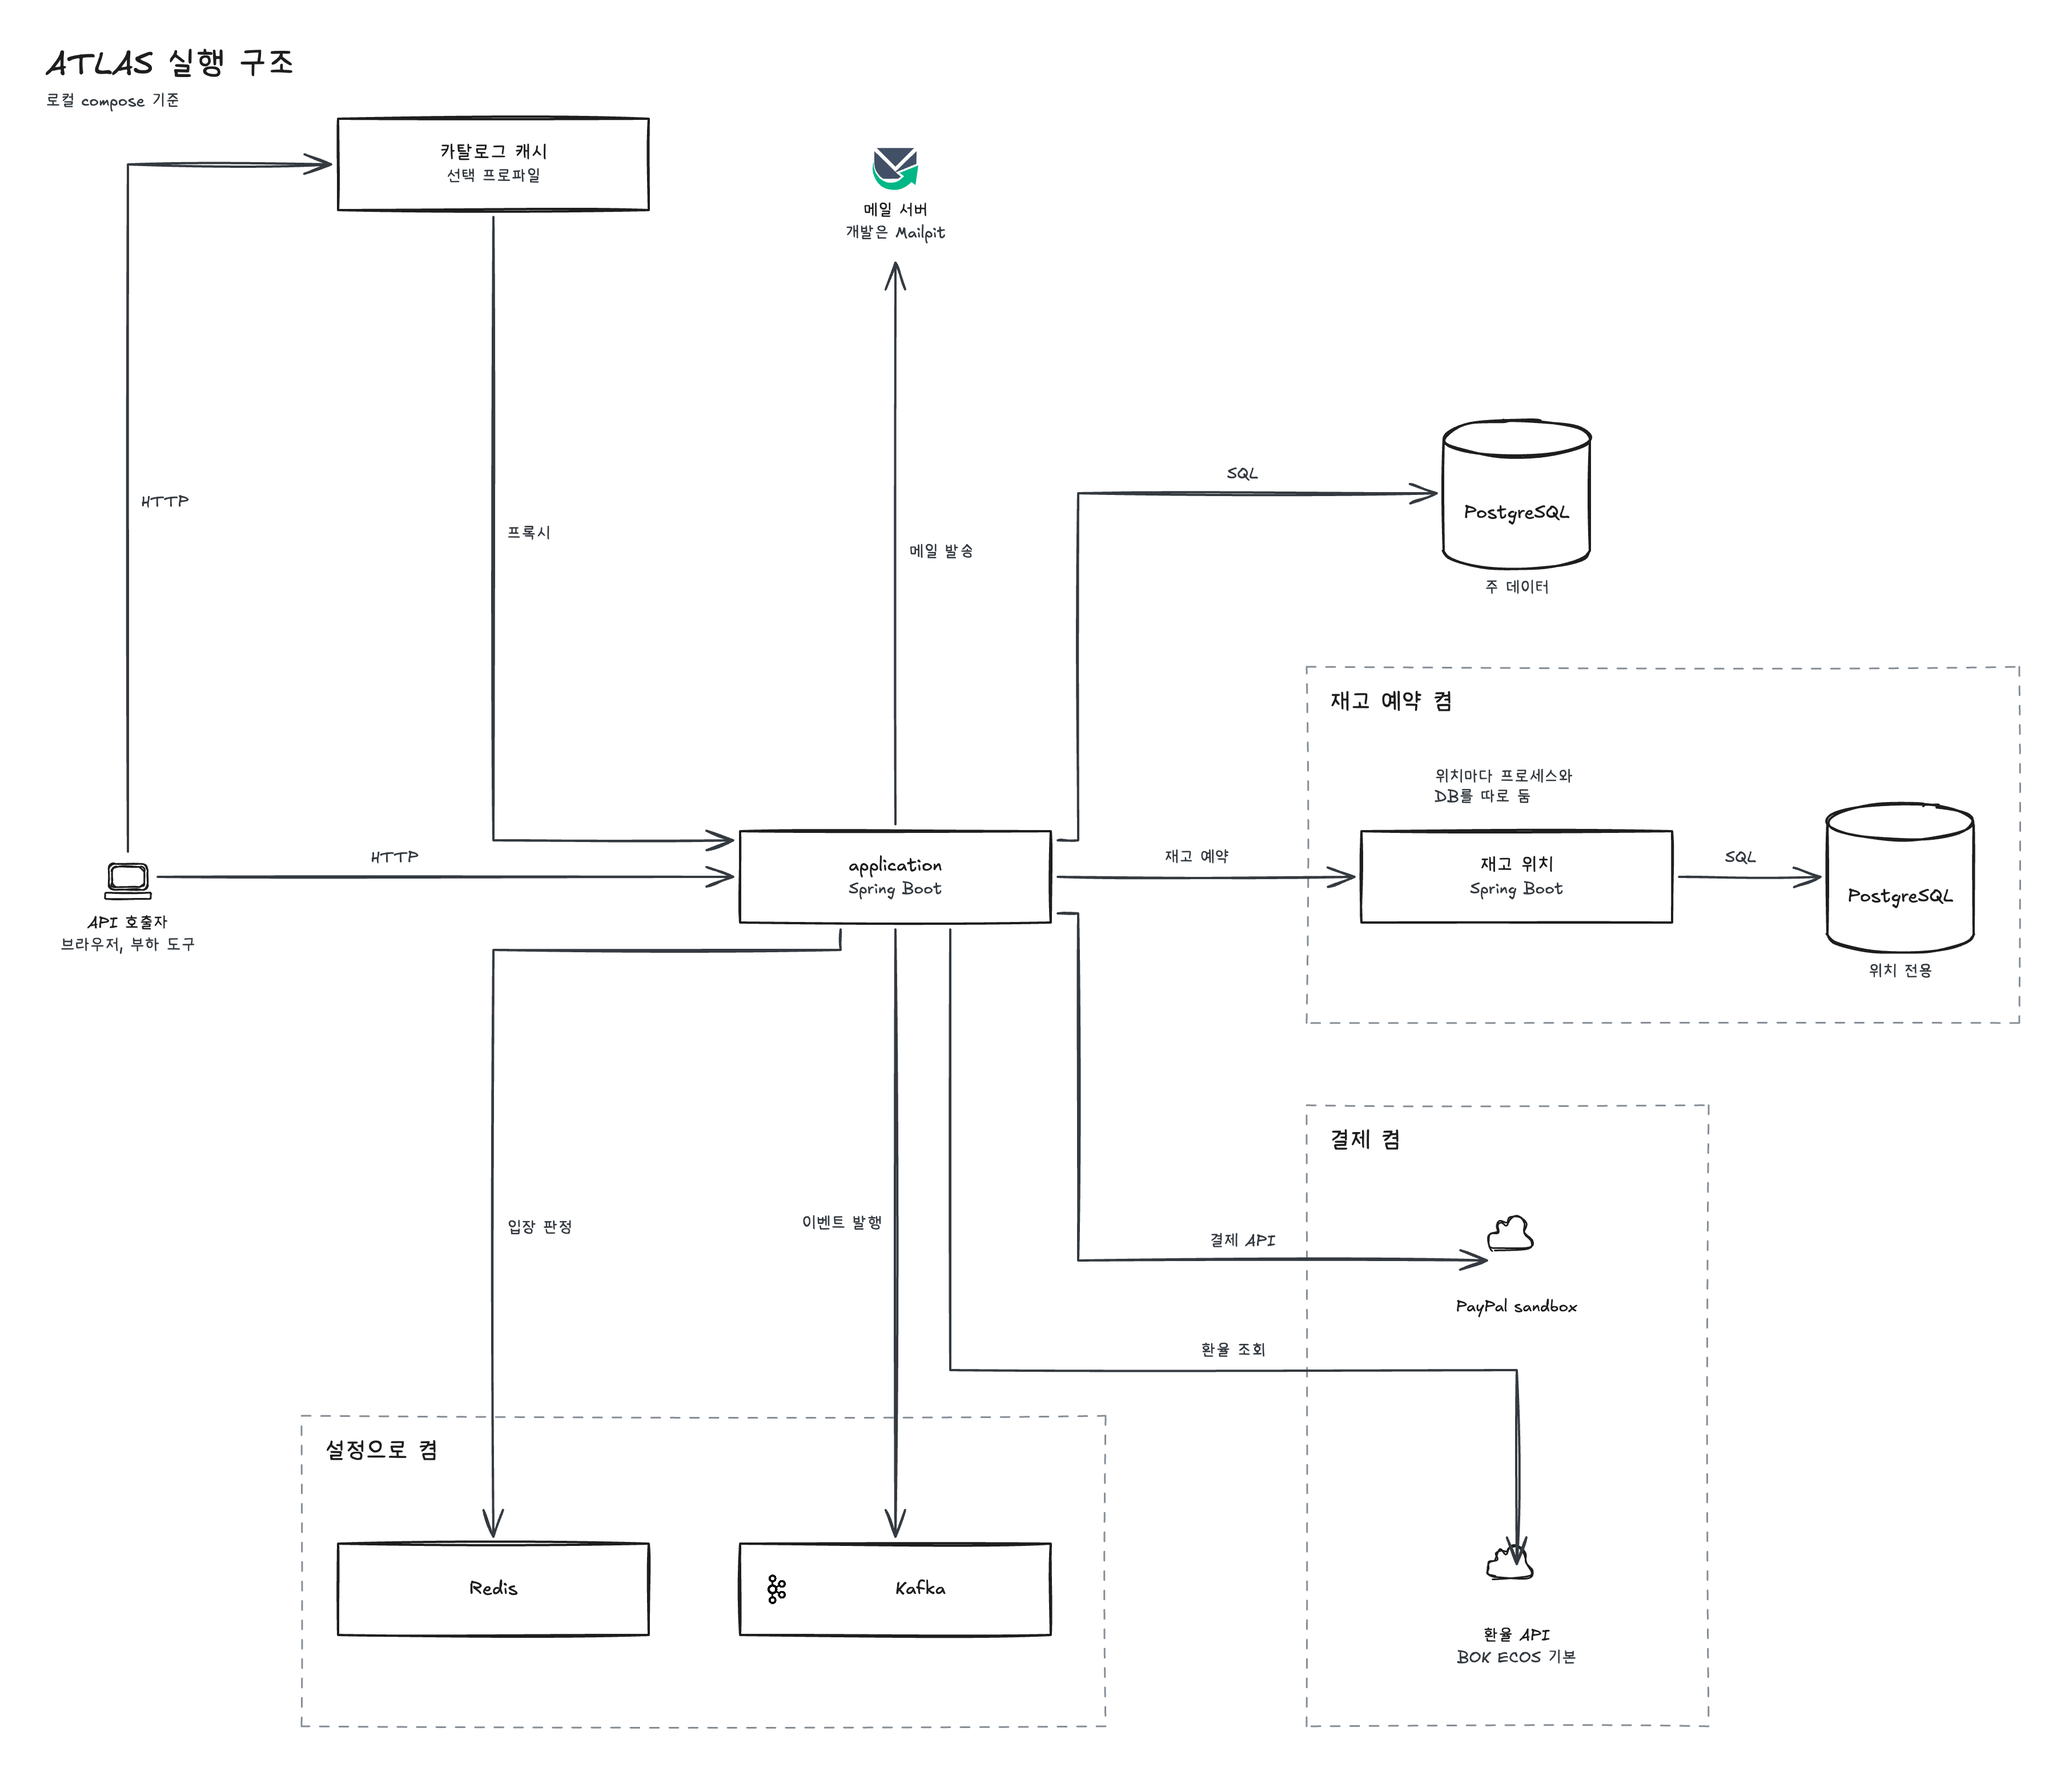
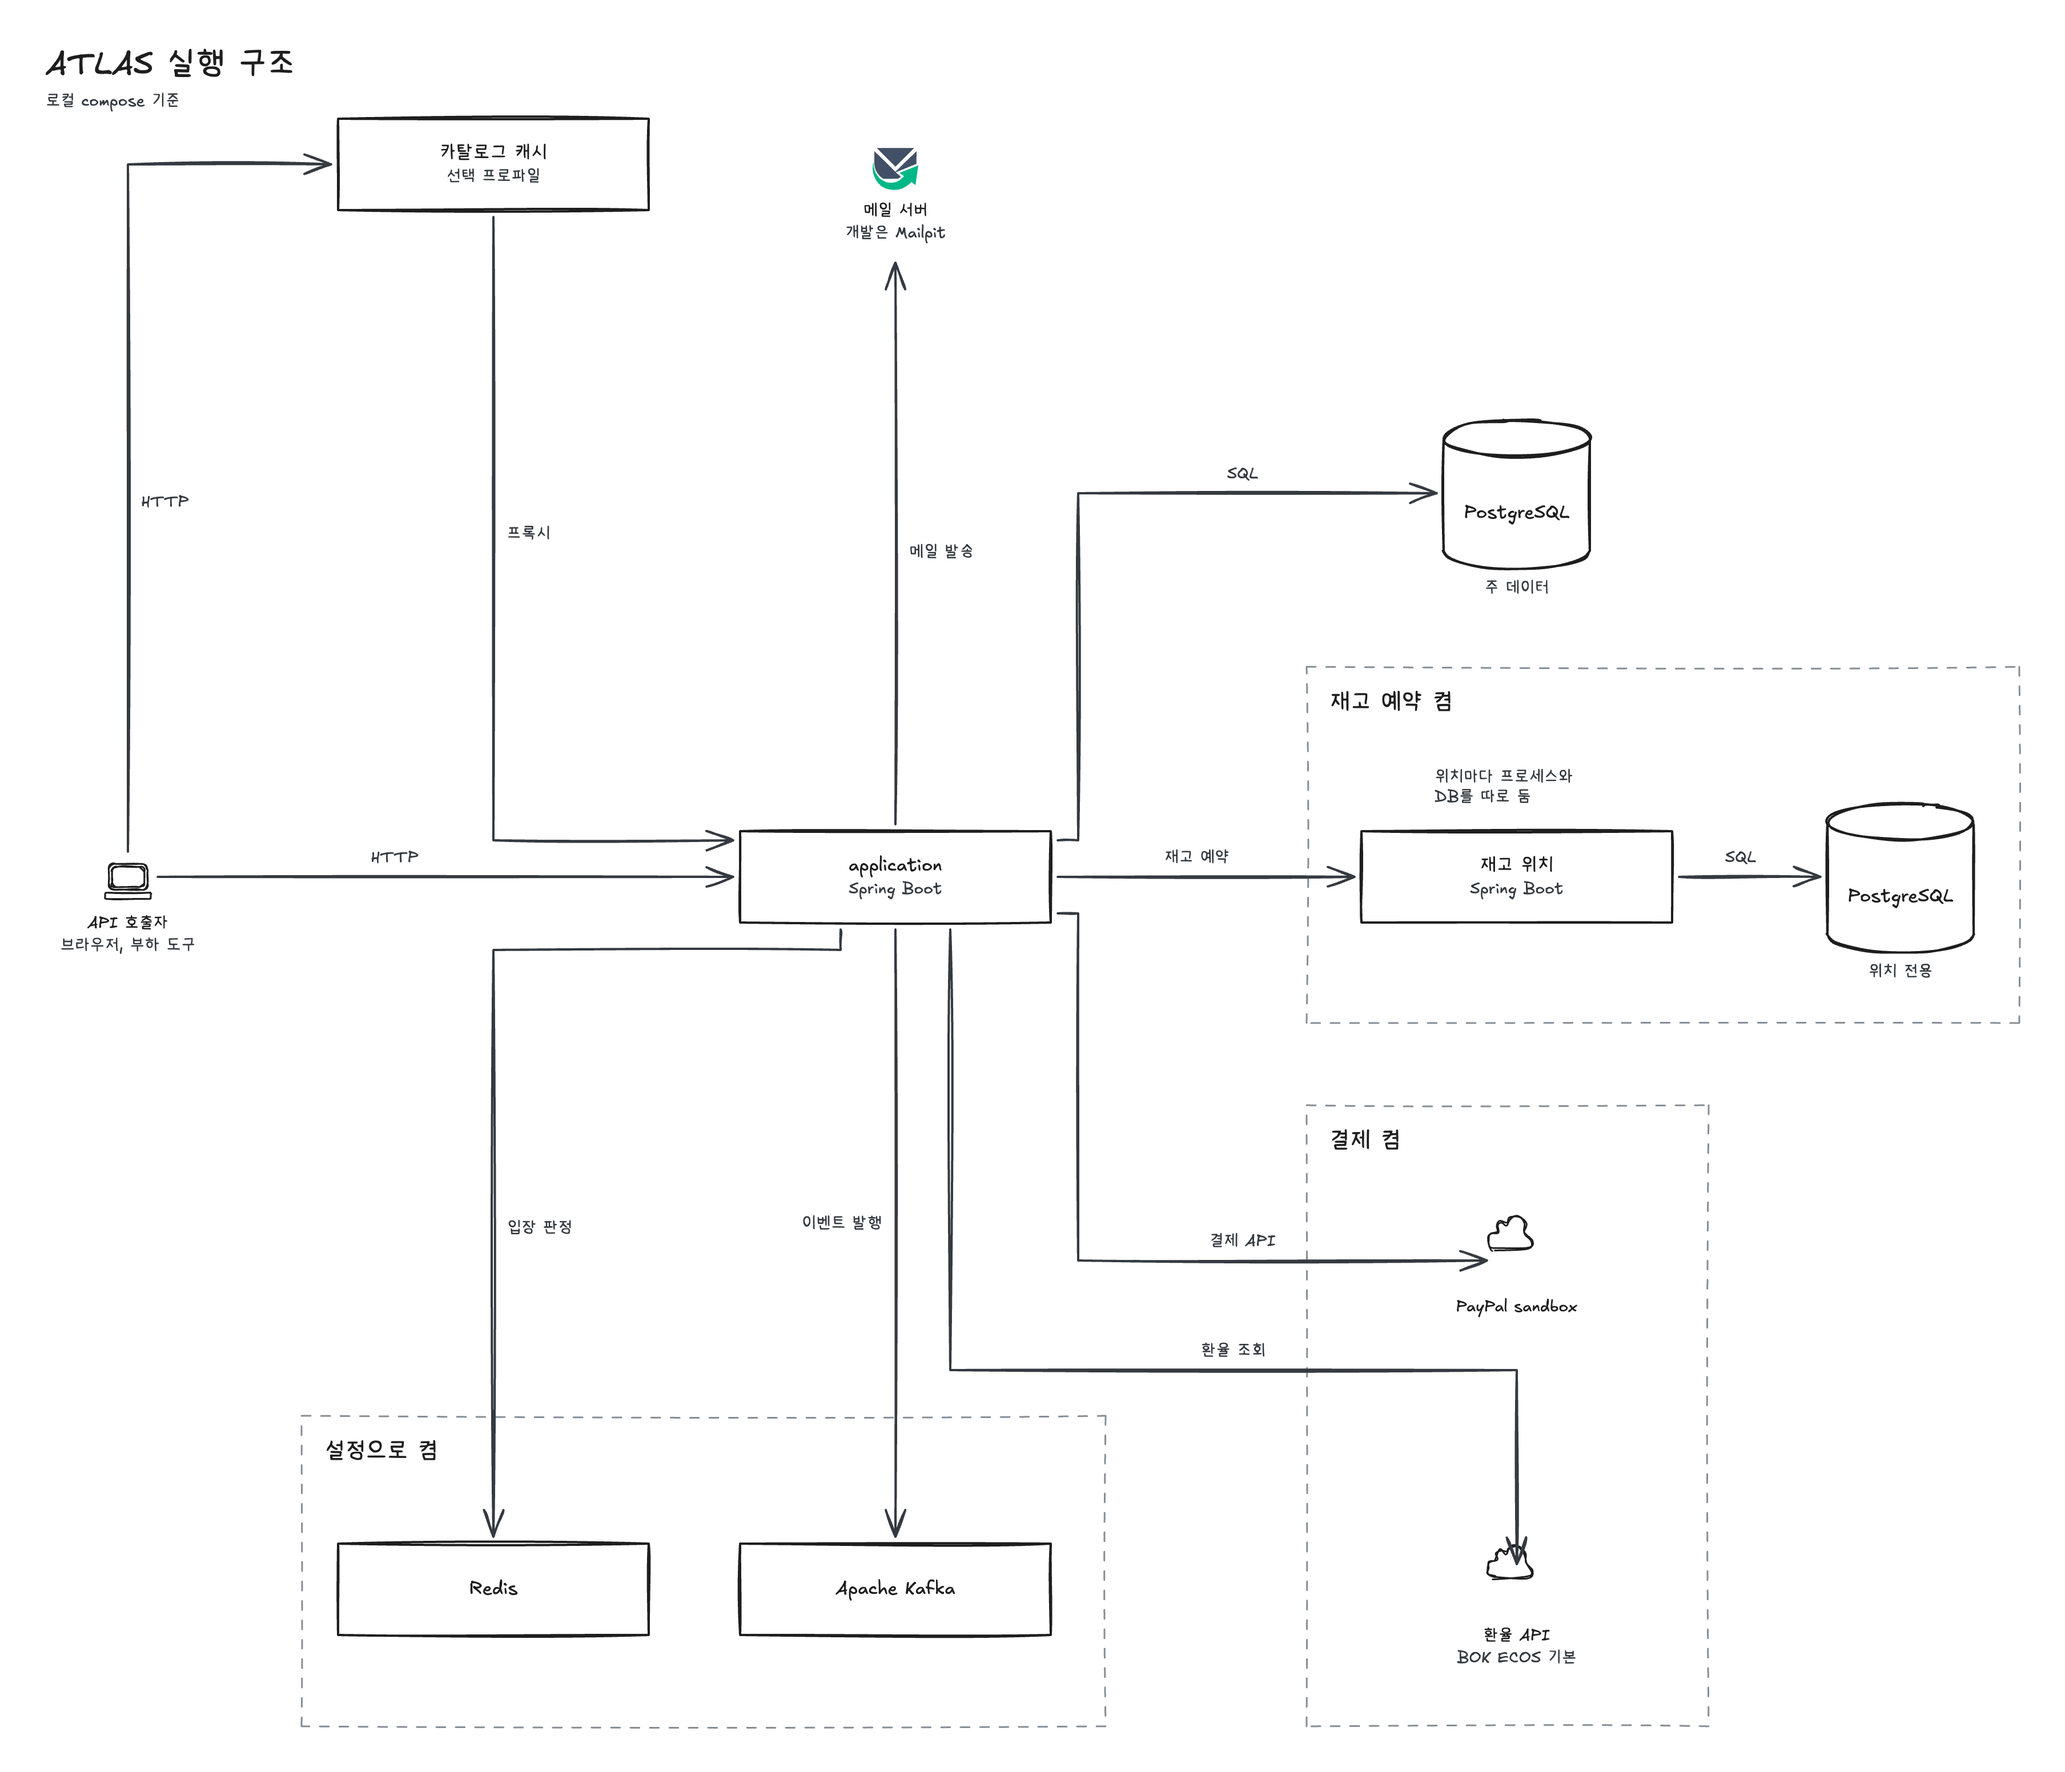
docs(readme): Kafka 로고를 빼고 Mailpit 아이콘의 MIT 고지를 추가한다
- 독립 검토에서 로고 사용 조건의 인용이 원문보다 단정적이라는 지적을 받아 원문을 다시 읽었다. ASF FAQ는 변경하지 않은 공식 로고와 함께 로고를 다른 이미지와 시각적으로 결합하지 말 것을 요구한다. 여러 이미지와 화살표가 한 장에 있는 이 그림이 해당하는지 판단하지 못해 Kafka 로고는 쓰지 않고 이름(Apache Kafka)만 적었다.
- Mailpit 아이콘은 MIT 전문을 docs/images/NOTICE.md에 두고 README에서 링크한다. MIT는 상표 권리를 주지 않는다는 점도 적었다.
- PostgreSQL은 표지를 사전 승인 없이 수정하지 말고 다른 로고와 함께 제시하지 말라는 원문 표현으로, Redis는 이름과 로고, 시각적 정체성 모방을 모두 다루고 일반 로고 허가를 찾지 못했다는 표현으로 바로잡았다.

Changed region(s): [[0.5938, 0.6875, 0.6562, 0.7188], [0.4062, 0.875, 0.4688, 0.9062]]

diff --git a/docs/images/NOTICE.md b/docs/images/NOTICE.md
@@ -1,0 +1,31 @@
+# 제3자 고지
+
+`architecture.png`의 메일 서버 아이콘은 Mailpit의 `server/ui/favicon.svg`를 그대로 썼다.
+
+- 출처: https://github.com/axllent/mailpit/blob/d54514ceb52c377307464850ddbaedbcbe70e1de/server/ui/favicon.svg
+- 라이선스: MIT. 아래는 같은 커밋의 `LICENSE` 전문이다.
+- MIT 라이선스는 저작권과 허가 문구의 사용을 허락할 뿐 Mailpit 이름과 로고의 상표 권리를 주지 않는다.
+
+```text
+The MIT License (MIT)
+Copyright (c) 2022-Now() Ralph Slooten
+
+Permission is hereby granted, free of charge, to any person obtaining
+a copy of this software and associated documentation files (the
+"Software"), to deal in the Software without restriction, including
+without limitation the rights to use, copy, modify, merge, publish,
+distribute, sublicense, and/or sell copies of the Software, and to
+permit persons to whom the Software is furnished to do so, subject to
+the following conditions:
+
+The above copyright notice and this permission notice shall be
+included in all copies or substantial portions of the Software.
+
+THE SOFTWARE IS PROVIDED "AS IS", WITHOUT WARRANTY OF ANY KIND,
+EXPRESS OR IMPLIED, INCLUDING BUT NOT LIMITED TO THE WARRANTIES OF
+MERCHANTABILITY, FITNESS FOR A PARTICULAR PURPOSE AND
+NONINFRINGEMENT. IN NO EVENT SHALL THE AUTHORS OR COPYRIGHT HOLDERS BE
+LIABLE FOR ANY CLAIM, DAMAGES OR OTHER LIABILITY, WHETHER IN AN ACTION
+OF CONTRACT, TORT OR OTHERWISE, ARISING FROM, OUT OF OR IN CONNECTION
+WITH THE SOFTWARE OR THE USE OR OTHER DEALINGS IN THE SOFTWARE.
+```

diff --git a/README.md b/README.md
@@ -7,7 +7,7 @@ ATLAS는 **PayPal AI Hackathon 참가용 이커머스 플랫폼**. 상품 탐색
 
 ![ATLAS 실행 구조](docs/images/architecture.png)
 
-로컬 compose 기준 실행 구조다. "켬" 영역(재고 예약, 결제, Redis와 Kafka)은 기본으로 꺼져 있고 설정을 켜야 동작한다. 로고는 벤더 원문에서 사용 조건을 확인한 제품(Apache Kafka, Mailpit)만 넣었고 나머지는 이름만 적었다. 사실 근거와 로고 출처, 다시 만드는 법은 [architecture.yaml](docs/images/architecture.yaml) 상단 주석에 있다.
+로컬 compose 기준 실행 구조다. "켬" 영역(재고 예약, 결제, Redis와 Kafka)은 기본으로 꺼져 있고 설정을 켜야 동작한다. 로고는 사용 조건을 원문에서 확인하고 지킬 수 있는 Mailpit 아이콘만 넣었고([제3자 고지](docs/images/NOTICE.md)), 나머지 제품은 이름만 적었다. 사실 근거와 제품별 로고 판단, 다시 만드는 법은 [architecture.yaml](docs/images/architecture.yaml) 상단 주석에 있다.
 
 ## 현재 기능과 모듈
 
